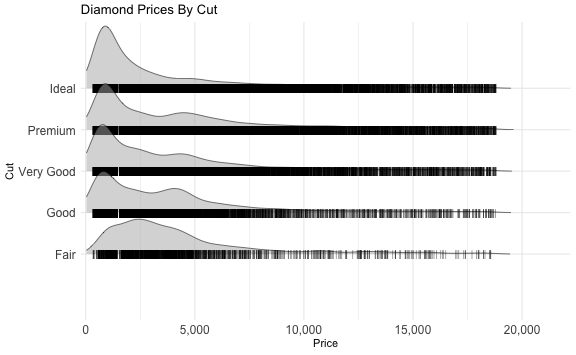
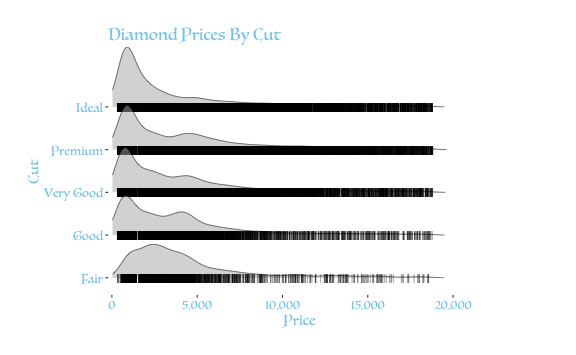
update talk

diff --git a/ny_hackr_talk_2019_09_19.html b/ny_hackr_talk_2019_09_19.html
@@ -68,6 +68,24 @@ ggplot(diamonds, aes(cut, price)) +
 ![](ny_hackr_talk_2019_09_19_files/figure-html/theme-1.png)&lt;!-- --&gt;
 
 ---
+# Make your own theme! 
+
+```r
+theme_diamonds &lt;- function(x) {
+  theme(text = element_text(family = "Luminari"),
+        axis.text = element_text(size = 12, color = "skyblue"),
+        axis.title = element_text(size = 14, color = "skyblue"),
+        plot.title = element_text(size = 16, face = "bold", color = "skyblue"),
+        plot.caption = element_text(color = "skyblue"),
+        plot.margin = margin(t = 1, r = 3, b = 1, l = 1, "cm"),
+        panel.background = element_rect(fill = "white"),
+        panel.grid.minor = element_blank())
+}
+```
+
+![](ny_hackr_talk_2019_09_19_files/figure-html/unnamed-chunk-1-1.png)&lt;!-- --&gt;
+
+---
 
 
 ```r
@@ -77,7 +95,7 @@ ggplot(diamonds, aes(cut, price)) +
   geom_boxplot() +
   scale_y_continuous(label = comma) +
   labs(x = "Cut", y = "Price", title = "Diamond Prices By Cut") +
-  theme_minimal() + 
+  theme_diamonds() + 
   theme(axis.text = element_text(size = 12))
 ```
 
@@ -93,7 +111,7 @@ ggplot(diamonds, aes(cut, price)) +
                binwidth = 30, alpha = 0.5) +
   scale_y_continuous(label = comma) +
   labs(x = "Cut", y = "Price", title = "Diamond Prices By Cut") +
-  theme_minimal() 
+  theme_diamonds() 
 ```
 
 ![](ny_hackr_talk_2019_09_19_files/figure-html/dotplot-1.png)&lt;!-- --&gt;
@@ -104,16 +122,15 @@ ggplot(diamonds, aes(cut, price)) +
 ```r
 ggplot(diamonds, aes(price, cut)) + 
   ggridges::geom_density_ridges(
-                      scale = 1.5,                # ridge height/overlap 
+                      scale = 1.4,                # ridge height/overlap 
                       rel_min_height = 0.001,     # where to draw line
                       alpha = 0.5) +    
   scale_x_continuous(limits = c(0, 22000),        # set cutoff 
                      expand = c(0.01, 0),         # allow expansion
                      label = comma) +       
-  scale_y_discrete(expand = c(0.4, 0)) +          # padding around graph 
+  scale_y_discrete(expand = c(0.1, 0)) +          # padding around graph 
   labs(x = "Price", y = "Cut", title = "Diamond Prices By Cut") + 
-  theme_minimal() + 
-  theme(axis.text = element_text(size = 12))
+  theme_diamonds() 
 ```
 
 ![](ny_hackr_talk_2019_09_19_files/figure-html/ridgeplot-1.png)&lt;!-- --&gt;
@@ -123,13 +140,14 @@ ggplot(diamonds, aes(price, cut)) +
 
 ```r
 ggplot(diamonds, aes(price, cut)) + 
-  ggridges::geom_density_ridges(scale = 1.5, rel_min_height = 0.001, alpha = 0.5,
-                                         quantile_lines = TRUE, quantiles = 2) +  
-  scale_x_continuous(limits = c(0, 22000), expand = c(0.01, 0), label = comma) +       
-  scale_y_discrete(expand = c(0.4, 0)) + 
+  ggridges::geom_density_ridges(scale = 1.4, rel_min_height = 0.001, 
+                                alpha = 0.5,
+                                quantile_lines = TRUE, quantiles = 2) +  
+  scale_x_continuous(limits = c(0, 22000), 
+                     expand = c(0.01, 0), label = comma) +       
+  scale_y_discrete(expand = c(0.1, 0)) + 
   labs(x = "Price", y = "Cut", title = "Diamond Prices By Cut") + 
-  theme_minimal() + 
-  theme(axis.text = element_text(size = 12))
+  theme_diamonds()
 ```
 
 ![](ny_hackr_talk_2019_09_19_files/figure-html/ridgeplotm-1.png)&lt;!-- --&gt;
@@ -140,14 +158,14 @@ ggplot(diamonds, aes(price, cut)) +
 ```r
 library(viridis)
 ggplot(diamonds, aes(price, cut, fill = ..x..)) + 
-  ggridges::geom_density_ridges_gradient(scale = 1.5, rel_min_height = 0.001, 
+  ggridges::geom_density_ridges_gradient(scale = 1.4, 
+                                         rel_min_height = 0.001, 
                                          gradient_lwd = 1) +  ## add gradient  
   scale_x_continuous(limits = c(0, 2000), expand = c(0.01, 0), label = comma) +       
-  scale_y_discrete(expand = c(0.4, 0)) + 
-  viridis::scale_fill_viridis(name = "Price", option = "C") +
+  scale_y_discrete(expand = c(0.1, 0)) + 
+  viridis::scale_fill_viridis(name = "Price", option = "D") +
   labs(x = "Price", y = "Cut", title = "Diamond Prices By Cut") + 
-  theme_minimal() + 
-  theme(axis.text = element_text(size = 12))
+  theme_diamonds() 
 ```
 
 ![](ny_hackr_talk_2019_09_19_files/figure-html/ridgeplotv-1.png)&lt;!-- --&gt;
@@ -157,16 +175,15 @@ ggplot(diamonds, aes(price, cut, fill = ..x..)) +
 
 ```r
 ggplot(diamonds, aes(price, cut, fill = factor(..quantile..))) + 
-  ggridges::stat_density_ridges(scale = 1.5, rel_min_height = 0.001, 
+  ggridges::stat_density_ridges(scale = 1.4, rel_min_height = 0.001, 
                                 geom = "density_ridges_gradient",
                                 calc_ecdf = TRUE, quantiles = 4, 
                                 quantile_lines = TRUE) +  
   scale_x_continuous(limits = c(0, 22000), expand = c(0.01, 0), label = comma) +       
-  scale_y_discrete(expand = c(0.4, 0)) + 
+  scale_y_discrete(expand = c(0.1, 0)) + 
   viridis::scale_fill_viridis(discrete = TRUE, name = "Quartiles") +
   labs(x = "Price", y = "Cut", title = "Diamond Prices By Cut") + 
-  theme_minimal() + 
-  theme(axis.text = element_text(size = 12))
+  theme_diamonds() 
 ```
 
 ![](ny_hackr_talk_2019_09_19_files/figure-html/ridgeplotvq-1.png)&lt;!-- --&gt;
@@ -176,45 +193,27 @@ ggplot(diamonds, aes(price, cut, fill = factor(..quantile..))) +
 
 ```r
 ggplot(diamonds, aes(price, cut)) + 
-  ggridges::geom_density_ridges(scale = 1.5, rel_min_height = 0.001, alpha = 0.5,
+  ggridges::geom_density_ridges(scale = 1.4, rel_min_height = 0.001, 
+                                alpha = 0.5,
                                 jittered_points = TRUE,  ## add points 
-                                point_shape = "|", point_size = 3, size = 0.25, 
+                                point_shape = "|", point_size = 3, 
+                                size = 0.25, 
                                 position = position_jitter(height = 0)) + 
-  scale_x_continuous(limits = c(0, 22000), expand = c(0.01, 0), label = comma) +       
-  scale_y_discrete(expand = c(0.4, 0)) + 
-  scale_fill_viridis(name = "Price", option = "C") +
+  scale_x_continuous(limits = c(0, 22000), 
+                     expand = c(0.01, 0), label = comma) +       
+  scale_y_discrete(expand = c(0.1, 0)) + 
   labs(x = "Price", y = "Cut", title = "Diamond Prices By Cut") + 
-  theme_minimal() + 
-  theme(axis.text = element_text(size = 12))
+  theme_diamonds() 
 ```
 
 ![](ny_hackr_talk_2019_09_19_files/figure-html/ridgeplotj-1.png)&lt;!-- --&gt;
 
 ---
-
-Make a fun theme! 
-
-```r
-theme_nyr &lt;- function(x) {
-  theme(text = element_text(family = "Webdings"),
-        axis.text = element_text(size = 12, color = "red"),
-        axis.title = element_text(size = 14, color = "red"),
-        plot.title = element_text(size = 14, face = "bold", color = "red"),
-        plot.caption = element_text(color = "red"),
-        plot.margin = margin(t = 1, r = 3, b = 1, l = 1, "cm"),
-        panel.background = element_rect(fill = "white", colour = NA),
-        panel.grid.minor = element_blank(),
-        axis.title.y = element_text(angle = 90))
-}
-```
-
-![](ny_hackr_talk_2019_09_19_files/figure-html/unnamed-chunk-1-1.png)&lt;!-- --&gt;
-
----
 #TidyTuesday
 
-[Github](https://github.com/rfordatascience/tidytuesday)
-[Shiny app: tidytuesday.rocks](https://nsgrantham.shinyapps.io/tidytuesdayrocks/)
+- [Github](https://github.com/rfordatascience/tidytuesday)
+
+- [Shiny app: tidytuesday.rocks](https://nsgrantham.shinyapps.io/tidytuesdayrocks/)
 
 ![](images/ttrocks.png)
 
